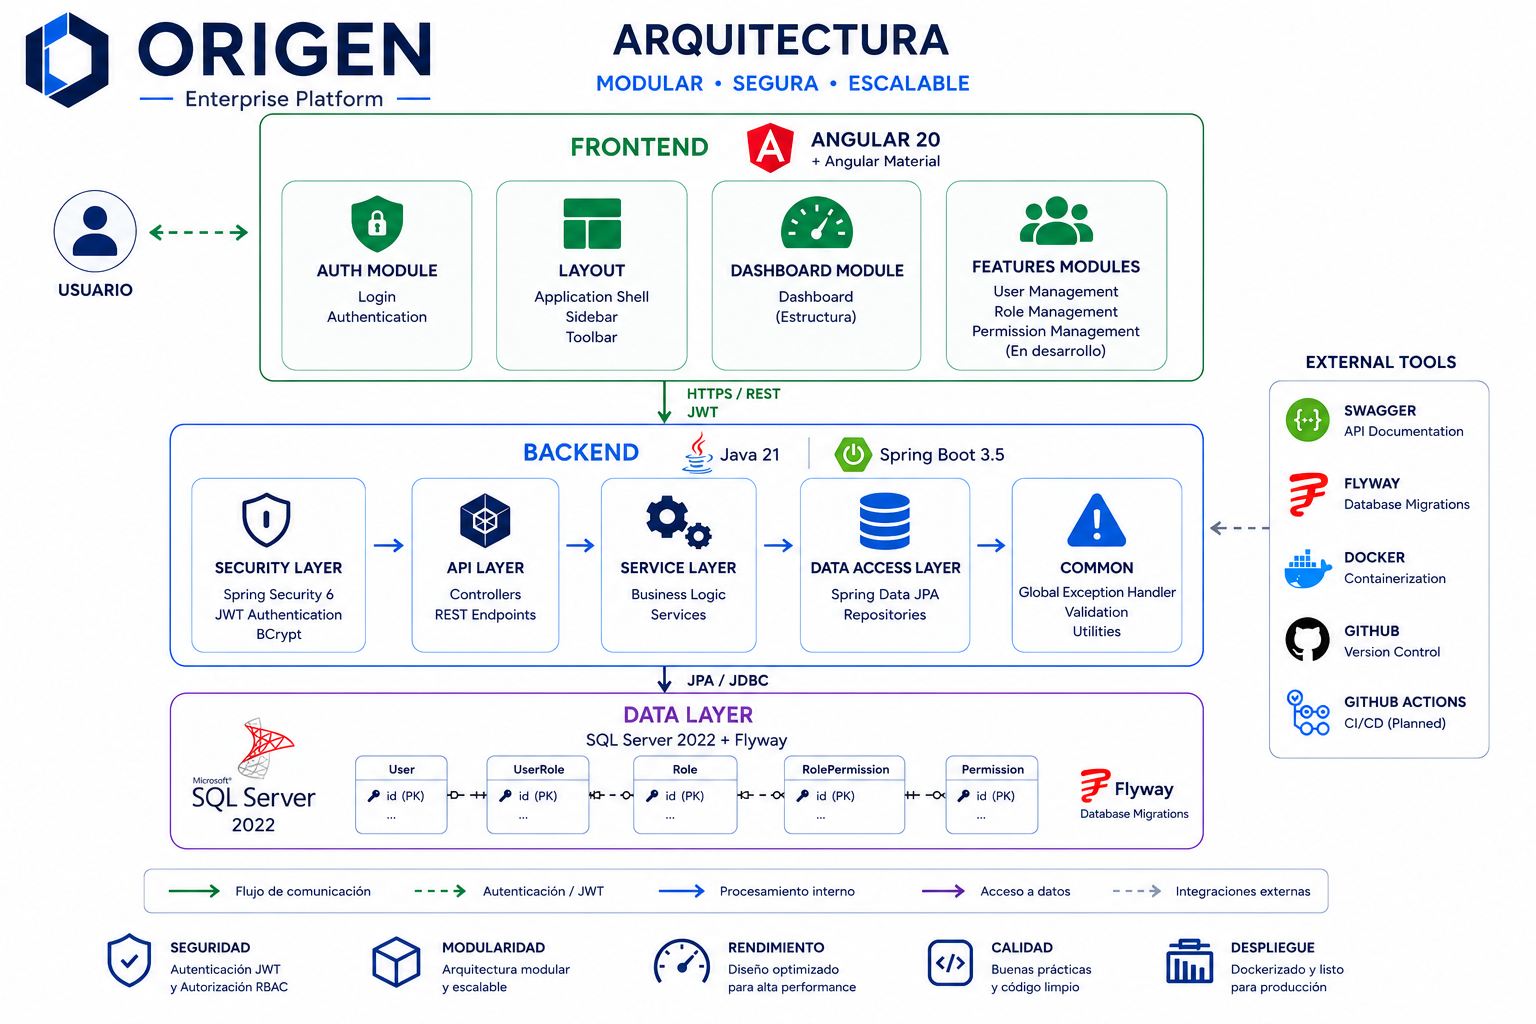
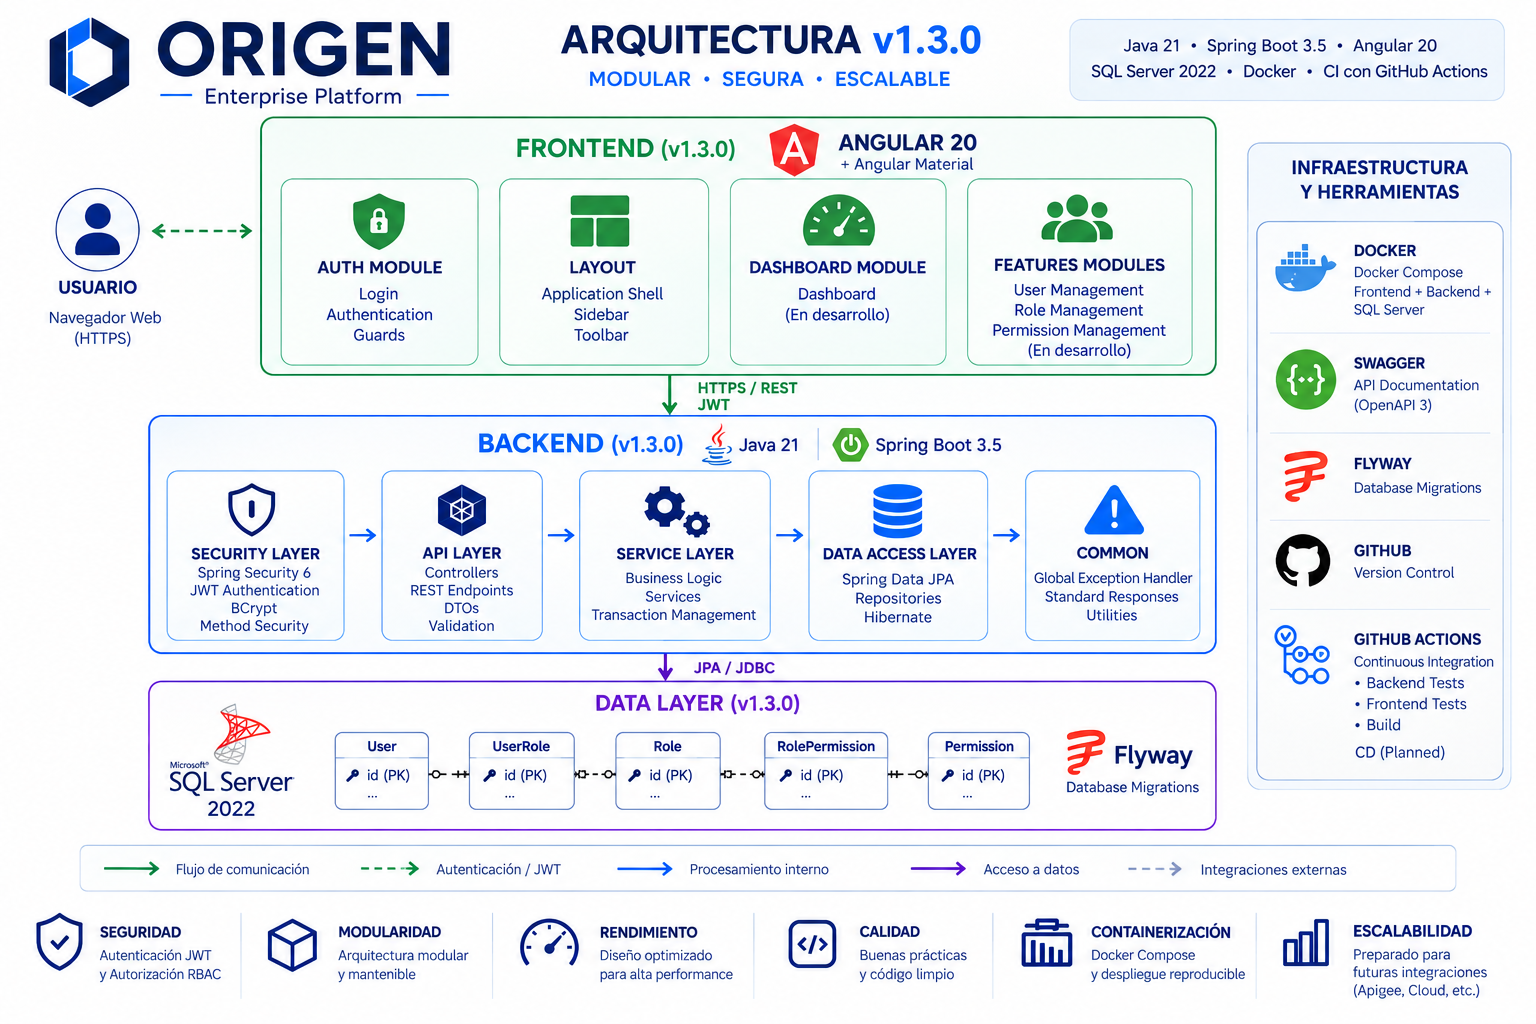
chore(release): prepare for release v1.3.0

Changed region(s): [[0.0, 0.0, 1.0, 0.9688], [0.8125, 0.75, 0.8438, 0.7812]]

diff --git a/frontend/src/app/features/auth/pages/login/login.html b/frontend/src/app/features/auth/pages/login/login.html
@@ -42,7 +42,7 @@
           </div>
 
           <div class="brand-version">
-              Versión 1.2.0
+              Versión 1.3.0
           </div>
 
           <div class="brand-copy">

diff --git a/README.md b/README.md
@@ -14,7 +14,7 @@ Java 21 • Spring Boot 3.5 • Angular 20 • SQL Server • JWT • Docker
 
 ORIGEN is a modern enterprise Full Stack platform built to demonstrate production-ready software architecture using **Java 21**, **Spring Boot 3.5**, **Angular 20**, **SQL Server**, and **Spring Security**.
 
-The project emphasizes maintainability, scalability, secure authentication, modular software design, and enterprise development practices.
+The project emphasizes maintainability, scalability, secure authentication, modular software design, automated testing, containerization, and enterprise development practices.
 
 ---
 
@@ -30,10 +30,16 @@ The project emphasizes maintainability, scalability, secure authentication, modu
 | Login Module | ✅ Completed |
 | Application Layout | ✅ Completed |
 | User Management UI | ✅ Completed |
+| Backend Unit Tests | ✅ Completed |
+| Backend Integration Tests | ✅ Completed |
+| Frontend Unit Tests | ✅ Completed |
+| Dockerized Application Stack | ✅ Completed |
 | GitHub Actions CI | ✅ Completed |
 | Dashboard | 🚧 In Progress |
 | Role Management | 📋 Planned |
 | Permission Management | 📋 Planned |
+| Full CI/CD Pipeline | 📋 Planned |
+| Apigee API Management | 📋 Planned |
 
 ---
 
@@ -48,8 +54,9 @@ The project emphasizes maintainability, scalability, secure authentication, modu
 | Database | SQL Server 2022 |
 | Database Versioning | Flyway |
 | Documentation | OpenAPI / Swagger |
-| Infrastructure | Docker, Docker Compose |
-| Build | Maven |
+| Testing | JUnit 5, Mockito, AssertJ, Testcontainers, Jasmine/Karma |
+| Infrastructure | Docker, Docker Compose, Nginx |
+| Build | Maven, npm |
 | CI | GitHub Actions |
 
 ---
@@ -67,8 +74,10 @@ The project emphasizes maintainability, scalability, secure authentication, modu
 - Reactive Forms + Angular Material UI
 - Permission-Aware Frontend
 - SQL Server + Flyway
-- Dockerized Development Environment
+- Dockerized Backend, Frontend and SQL Server environment
+- Nginx serving the Angular application
 - OpenAPI / Swagger
+- Automated Unit and Integration Testing
 - GitHub Actions CI
 - SOLID Principles
 - Clean Code
@@ -82,6 +91,8 @@ The project emphasizes maintainability, scalability, secure authentication, modu
 </p>
 
 ORIGEN follows a **modular monolith architecture**, where each business module contains its own controllers, services, repositories, DTOs, and entities.
+
+The application is containerized using Docker Compose, with the Angular frontend served by Nginx, the Spring Boot backend running as a separate container, and SQL Server providing persistence.
 
 This structure promotes clear separation of responsibilities, maintainability, and scalability while keeping the application simple to develop and deploy.
 
@@ -133,6 +144,7 @@ Interactive REST API documentation generated using OpenAPI 3.
 - Duplicate resource validation
 - Global Exception Handling
 - Standardized API responses
+- Unit and integration testing
 
 ## Frontend
 
@@ -146,6 +158,7 @@ Interactive REST API documentation generated using OpenAPI 3.
 - Authentication Guards
 - JWT HTTP Interceptor
 - Success and Error Notifications
+- Unit testing with Jasmine/Karma
 
 ## Security
 
@@ -169,14 +182,21 @@ Interactive REST API documentation generated using OpenAPI 3.
 
 - Docker
 - Docker Compose
+- Dockerized Angular + Nginx
+- Dockerized Spring Boot backend
+- SQL Server container
 - External Configuration
+- Environment-based configuration
 - Maven Wrapper
 
 ## CI
 
 - GitHub Actions
-- Maven Build Verification
-- Automated Backend Build
+- Automated Backend Build and Verification
+- Frontend Tests
+- Frontend Build
+- Backend Unit and Integration Tests
+- Testcontainers for SQL Server integration testing
 
 ---
 
@@ -207,17 +227,78 @@ backend/src/main/resources/application-local.yml
 
 and configure your local environment.
 
----
+For Docker, configure:
 
-## 3. Start SQL Server
+```text
+docker/.env
+```
 
-```bash
-docker compose -f docker/docker-compose.yml up -d
+using:
+
+```text
+docker/.env.example
 ```
 
 ---
 
-## 4. Run the Backend
+## 3. Start the Application Stack with Docker
+
+Build the backend:
+
+```bash
+cd backend
+./mvnw clean package
+```
+
+On Windows:
+
+```bash
+mvnw.cmd clean package
+```
+
+Build the backend image:
+
+```bash
+docker build -t origen-backend:local .
+```
+
+Build the frontend image from the `frontend` directory:
+
+```bash
+cd ../frontend
+docker build -t origen-frontend:local .
+```
+
+Return to the repository root and start the application stack:
+
+```bash
+cd ..
+docker compose --env-file docker/.env -f docker/docker-compose.yml --profile app up -d
+```
+
+The `app` profile starts:
+
+- SQL Server
+- Spring Boot backend
+- Angular frontend with Nginx
+
+Frontend:
+
+```text
+http://localhost:4200
+```
+
+Backend:
+
+```text
+http://localhost:8080
+```
+
+---
+
+## 4. Run the Application Without Docker
+
+For local backend development:
 
 ```bash
 cd backend
@@ -238,11 +319,7 @@ Backend URL:
 http://localhost:8080
 ```
 
----
-
-## 5. Run the Frontend
-
-Open a new terminal.
+For the Angular frontend:
 
 ```bash
 cd frontend
@@ -264,7 +341,7 @@ Login using the default administrator account:
 
 ---
 
-## 6. API Documentation
+## 5. API Documentation
 
 Swagger UI:
 
@@ -306,6 +383,7 @@ backend/src/main/java/cl/origen/platform
 ├── config
 ├── security
 └── modules
+
     ├── auth
     ├── health
     └── user
@@ -328,12 +406,18 @@ Each module contains the layers required by its responsibilities, such as contro
 - SQL Server Integration
 - Flyway Migrations
 - Docker Environment
+- Dockerized Backend
+- Dockerized Frontend with Nginx
+- Docker Compose Application Stack
 - Swagger Documentation
 - Angular Bootstrap
 - Login Module
 - Application Layout
 - Frontend Navigation
 - Feature Modules
+- Backend Unit Testing
+- Backend Integration Testing with Testcontainers
+- Frontend Unit Testing
 - GitHub Actions CI
 
 ---
@@ -349,8 +433,8 @@ Each module contains the layers required by its responsibilities, such as contro
 - Role Management
 - Permission Management
 - Refresh Token
-- Automated Testing
 - Full CI/CD Pipeline
+- Apigee API Management
 
 ---
 
@@ -363,6 +447,7 @@ Each module contains the layers required by its responsibilities, such as contro
 - Clean Code
 - REST API Design
 - DTO-based API Design
+- Automated Testing
 - Conventional Commits
 - Git Flow
 
